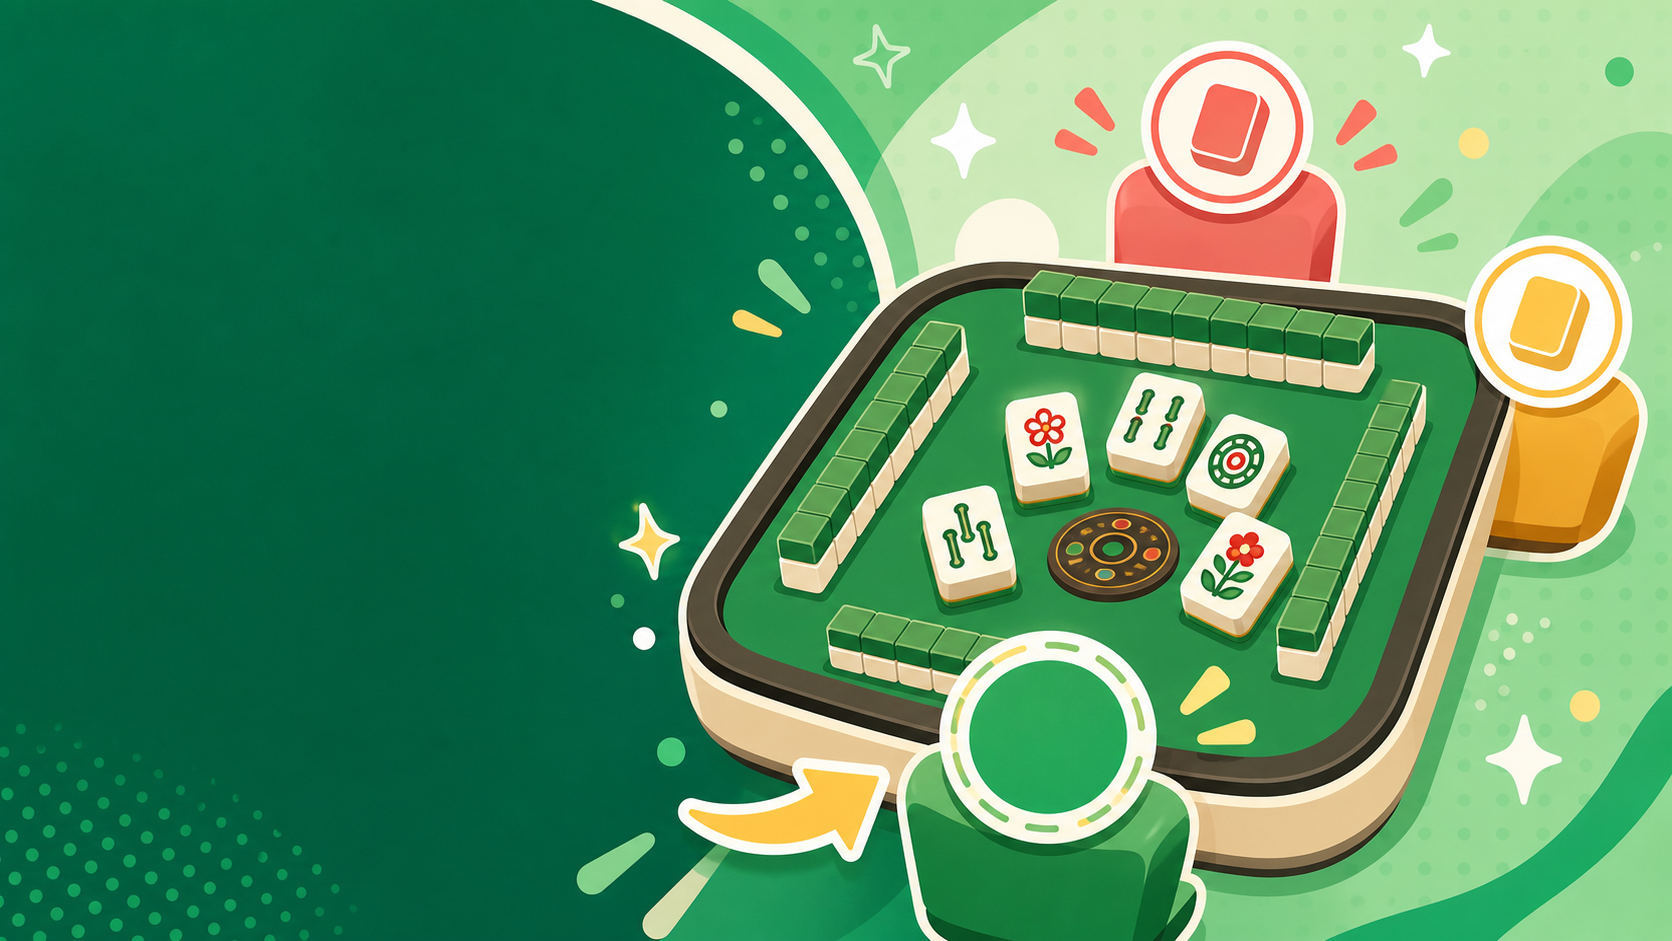
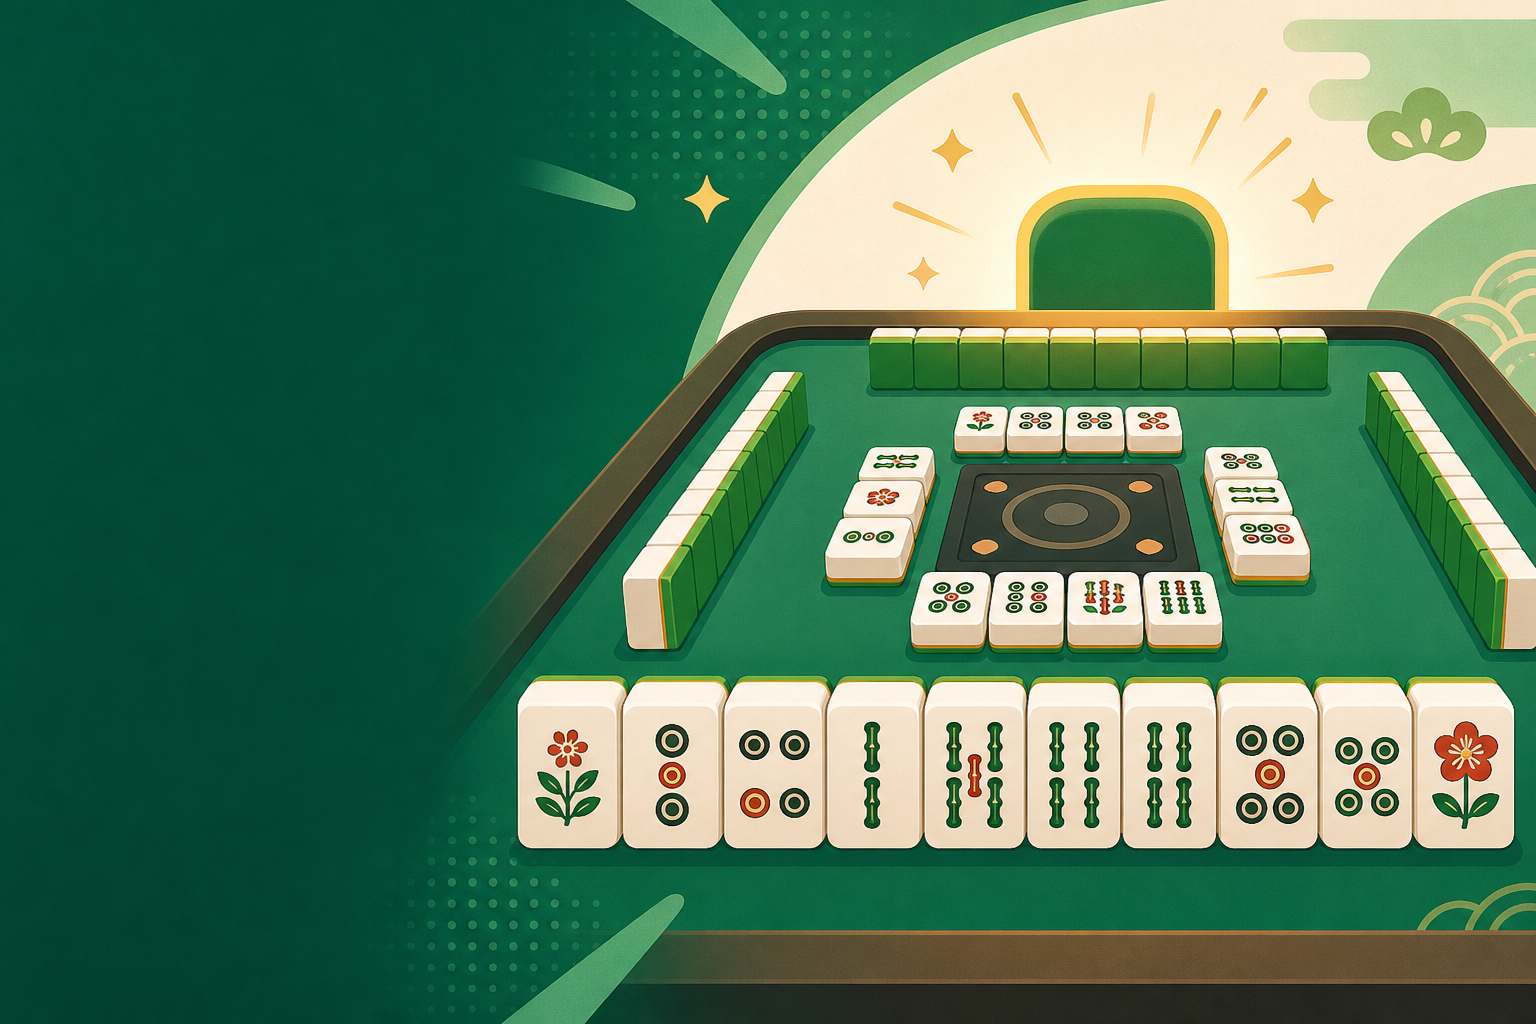
Update status button illustrations

diff --git a/src/app/globals.css b/src/app/globals.css
@@ -173,12 +173,9 @@ button { font: inherit; cursor: pointer; }
   inset: 0;
   content: "";
   pointer-events: none;
-  background: linear-gradient(
-    180deg,
-    rgba(0,0,0,.08) 0%,
-    rgba(0,0,0,.16) 36%,
-    rgba(0,0,0,.74) 100%
-  );
+  background:
+    linear-gradient(90deg, rgba(4, 38, 26, .82) 0%, rgba(4, 38, 26, .66) 34%, rgba(4, 38, 26, .08) 64%, transparent 100%),
+    linear-gradient(180deg, rgba(0,0,0,.04) 0%, rgba(0,0,0,.12) 44%, rgba(0,0,0,.56) 100%);
 }
 
 @media (hover: hover) {